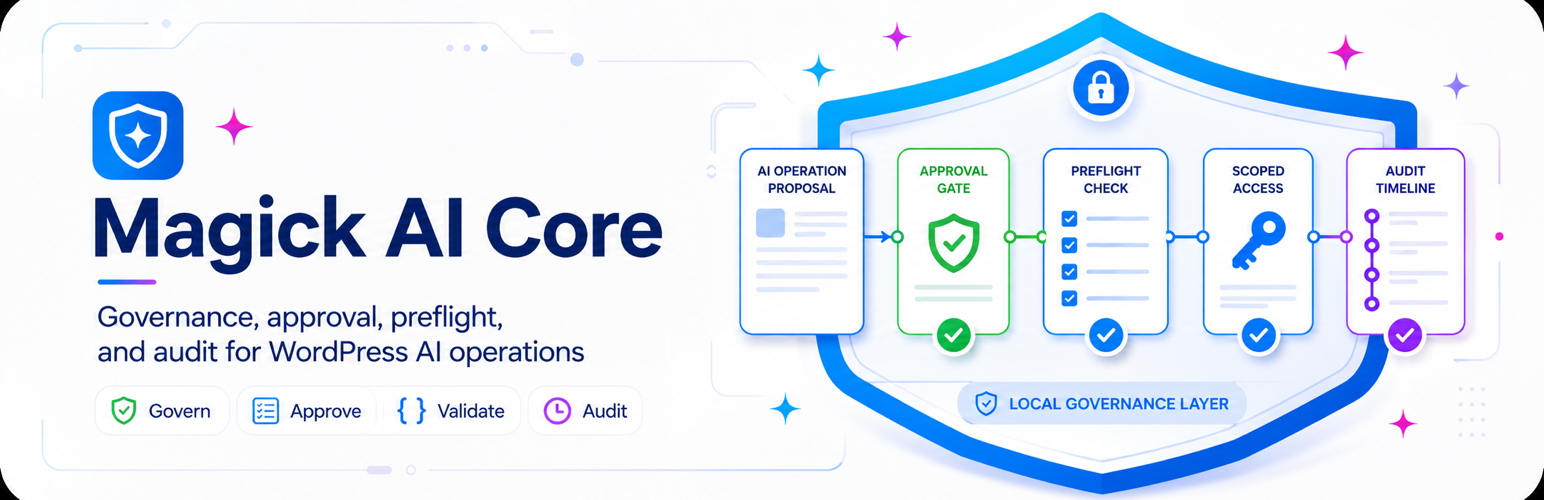
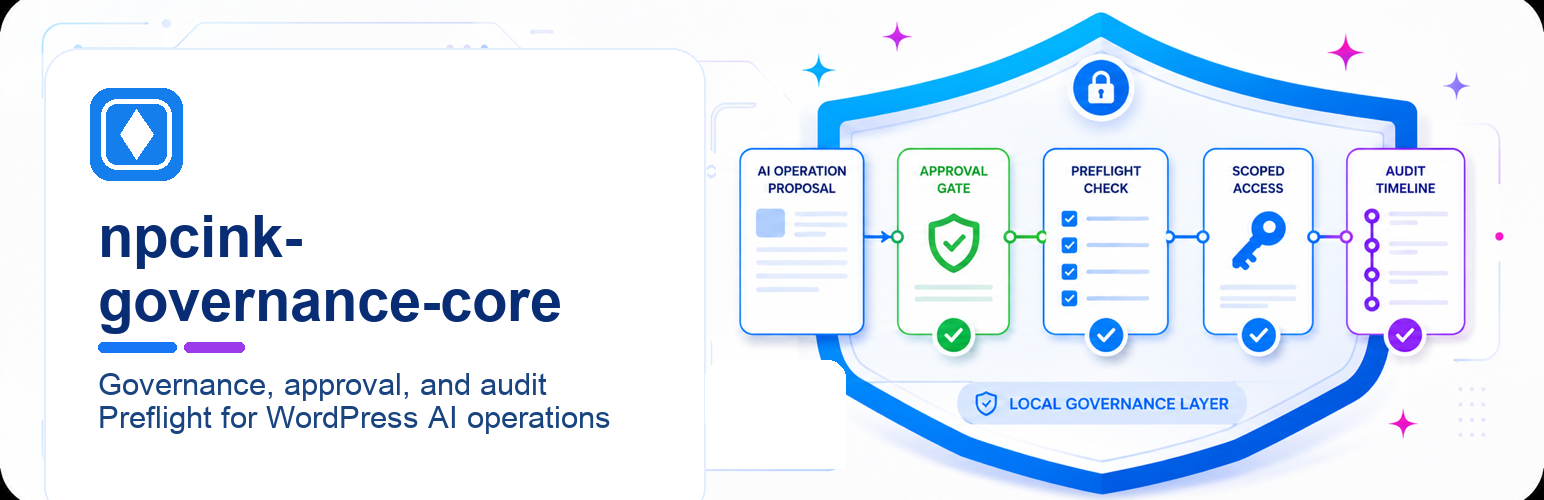
core: align wordpress release identity

diff --git a/includes/Admin/Admin_Page.php b/includes/Admin/Admin_Page.php
@@ -111,7 +111,7 @@ final class Admin_Page {
 
 		add_submenu_page(
 			self::PARENT_MENU_SLUG,
-			__( 'Npcink Governance Core', 'npcink-governance-core' ),
+			__( 'npcink-governance-core', 'npcink-governance-core' ),
 			__( 'Core', 'npcink-governance-core' ),
 			self::MENU_CAPABILITY,
 			self::MENU_SLUG,
@@ -280,7 +280,7 @@ final class Admin_Page {
 		$error          = $this->admin_query_key( 'npcink_governance_core_error' );
 		?>
 		<div class="wrap">
-			<h1><?php echo esc_html__( 'Npcink Governance Core', 'npcink-governance-core' ); ?></h1>
+			<h1><?php echo esc_html__( 'npcink-governance-core', 'npcink-governance-core' ); ?></h1>
 			<p><?php echo esc_html__( 'Review WordPress requests before they run.', 'npcink-governance-core' ); ?></p>
 
 			<?php if ( '' !== $message ) : ?>

diff --git a/tests/run.php b/tests/run.php
@@ -122,7 +122,7 @@ function npcink_governance_core_find_forbidden_key( $value, array $forbidden_key
 }
 
 $main_plugin = npcink_governance_core_read( $root . '/npcink-governance-core.php' );
-npcink_governance_core_assert( false !== strpos( $main_plugin, 'Plugin Name: Npcink Governance Core' ), 'Main plugin file declares plugin header.' );
+npcink_governance_core_assert( false !== strpos( $main_plugin, 'Plugin Name: npcink-governance-core' ), 'Main plugin file declares plugin header.' );
 npcink_governance_core_assert( false !== strpos( $main_plugin, 'Description: Npcink AI governance layer for WordPress operations.' ), 'Main plugin file declares the public positioning.' );
 npcink_governance_core_assert( false !== strpos( $main_plugin, 'Text Domain: npcink-governance-core' ), 'Main plugin file keeps the canonical text domain.' );
 npcink_governance_core_assert( false !== strpos( $main_plugin, 'Domain Path: /languages' ), 'Main plugin file declares the bundled languages path.' );
@@ -184,7 +184,7 @@ foreach (
 $wp_readme = npcink_governance_core_read( $root . '/readme.txt' );
 foreach (
 	array(
-		'=== Npcink Governance Core ===',
+		'=== npcink-governance-core ===',
 		'Stable tag: 0.1.0',
 		'Npcink AI governance layer for WordPress operations.',
 		'Open Npcink AI > Core',

diff --git a/includes/Governance/Commit_Preflight_Service.php b/includes/Governance/Commit_Preflight_Service.php
@@ -65,7 +65,7 @@ final class Commit_Preflight_Service {
 		if ( array_key_exists( 'confirm_token', $request_params ) || array_key_exists( 'write_confirmed', $request_params ) ) {
 			return new WP_Error(
 				'npcink_governance_core_legacy_confirmation_rejected',
-				__( 'Legacy confirmation parameters are not accepted by Npcink Governance Core.', 'npcink-governance-core' ),
+				__( 'Legacy confirmation parameters are not accepted by npcink-governance-core.', 'npcink-governance-core' ),
 				array( 'status' => 400 )
 			);
 		}

diff --git a/npcink-governance-core.php b/npcink-governance-core.php
@@ -1,6 +1,6 @@
 <?php
 /**
- * Plugin Name: Npcink Governance Core
+ * Plugin Name: npcink-governance-core
  * Description: Npcink AI governance layer for WordPress operations.
  * Version: 0.1.0
  * Requires at least: 7.0

diff --git a/.sisyphus/session-breadcrumb.md b/.sisyphus/session-breadcrumb.md
@@ -1,5 +1,36 @@
 # Session Breadcrumb
 
+## 2026-06-10 — Release branch merged and public plugin name aligned
+
+- **Module**: WordPress.org release identity and listing assets.
+- **Status**: The release candidate branch was fast-forward merged into
+  `master`, and the public plugin name is now `npcink-governance-core`.
+- **Completed**:
+  - Merged `codex/media-adoption-enhancement-plan` into `master`.
+  - Updated the plugin header, `readme.txt`, admin title, release gate docs,
+    translation catalogs, and `sj/` listing copy to use
+    `npcink-governance-core` as the public plugin name.
+  - Reworked the WordPress.org banner exports from the existing asset material
+    so they no longer show the old `Magick AI Core` text.
+  - Confirmed WordPress.org asset dimensions for `banner-1544x500.png`,
+    `banner-772x250.png`, `icon-256x256.png`, and `icon-128x128.png`.
+  - Rebuilt `build/npcink-governance-core.zip`; the package root remains
+    `npcink-governance-core/`, and `sj/` remains excluded from the plugin zip.
+- **Verification**:
+  - In `/Users/muze/gitee/magick-ai-core`: `git diff --check`
+  - In `/Users/muze/gitee/magick-ai-core`: `composer release:verify`
+  - In `/Users/muze/gitee/magick-ai-core`: `composer smoke:wp`
+  - In `/Users/muze/gitee/magick-ai-core`: `composer package:release`
+- **Next steps**:
+  - Push `master`.
+  - Copy `build/npcink-governance-core.zip` contents to WordPress.org SVN
+    `/trunk`, create `/tags/0.1.0`, and copy `sj/exports/wordpress-org/*` to
+    SVN top-level `/assets`.
+- **Boundary**:
+  - Release identity and listing asset work only. Core remains the governance
+    layer and still does not execute final writes, route models, store provider
+    credentials, or add workflow/runtime ownership.
+
 ## 2026-06-10 — WordPress.org release gate warning cleared
 
 - **Module**: Core WordPress.org release package readiness.

diff --git a/docs/wordpress-org-release-gate.md b/docs/wordpress-org-release-gate.md
@@ -42,7 +42,7 @@ call site, for example `set_transient( PREFIX . $suffix, ... )`, and keep
 
 Use this public identity for the WordPress.org upload:
 
-- plugin display name: `Npcink Governance Core`;
+- plugin display name: `npcink-governance-core`;
 - package slug and text domain: `npcink-governance-core`;
 - top-level menu and product suite: `Npcink AI`;
 - reviewer-facing description: `Npcink AI governance layer for WordPress operations`;
@@ -51,7 +51,7 @@ Use this public identity for the WordPress.org upload:
 - author: `Npcink`.
 
 Internal PHP namespaces, function prefixes, table prefixes, hooks, options, and
-error codes use the Npcink Governance Core identity. Do not reintroduce legacy
+error codes use the npcink-governance-core identity. Do not reintroduce legacy
 Magick AI compatibility identifiers during a release-only pass.
 
 The upload artifact is:
@@ -64,7 +64,7 @@ Before upload, confirm the package root is `npcink-governance-core/` and the
 plugin header contains:
 
 ```text
-Plugin Name: Npcink Governance Core
+Plugin Name: npcink-governance-core
 Author: Npcink
 Text Domain: npcink-governance-core
 ```
@@ -104,7 +104,7 @@ Use the Additional Information field to help reviewers understand the plugin's
 technical boundary. Prefer this reviewer-facing text over marketing copy:
 
 ```text
-Npcink Governance Core is the Npcink AI governance layer for WordPress operations, reviewing and approving AI-initiated WordPress actions before execution.
+The npcink-governance-core plugin is the Npcink AI governance layer for WordPress operations, reviewing and approving AI-initiated WordPress actions before execution.
 
 The plugin registers REST endpoints under /wp-json/npcink-governance-core/v1/ and stores proposals, audit events, app keys, and rate-limit state in custom WordPress database tables. These direct database queries are intentional because the plugin owns those tables.
 
@@ -114,7 +114,7 @@ The bundled examples use Npcink ability ids, but the base governance proposal li
 
 The plugin does not call external services, does not load remote assets, and does not send site data to third parties. App secrets are hashed before storage, and one-time bearer tokens are only shown at creation time.
 
-Internal PHP namespaces, function prefixes, table prefixes, hooks, options, and error codes use the Npcink Governance Core identity. The public plugin name, slug, text domain, REST namespace, and WordPress.org package identity are Npcink Governance Core / npcink-governance-core.
+Internal PHP namespaces, function prefixes, table prefixes, hooks, options, and error codes use the npcink-governance-core identity. The public plugin name, slug, text domain, REST namespace, and WordPress.org package identity are npcink-governance-core.
 ```
 
 If the form field is short, use this condensed version:

diff --git a/sj/image-prompts.md b/sj/image-prompts.md
@@ -2,7 +2,7 @@
 
 ## Shared Series Identity
 
-Use a consistent Magick AI plugin-family visual language across future assets:
+Use a consistent Npcink plugin-family visual language across future assets:
 
 - Modern open-source developer tooling.
 - Clean geometric shapes.
@@ -15,7 +15,7 @@ Use a consistent Magick AI plugin-family visual language across future assets:
 ## Icon Prompt
 
 ```text
-Create a square WordPress.org plugin icon for "Npcink Governance Core", one plugin in the Npcink plugin family.
+Create a square WordPress.org plugin icon for "npcink-governance-core", one plugin in the Npcink plugin family.
 
 This specific plugin represents the local WordPress governance layer for AI-assisted operations: proposal intake, approval boundaries, commit preflight, scoped app keys, and audit logs. It is not the ability content package, not an OpenClaw adapter, not a cloud connector, and not a model client.
 
@@ -33,11 +33,11 @@ Avoid: robot faces, chat bubbles, cloud product imagery, ability-node content-pa
 ## Banner Prompt
 
 ```text
-Create a WordPress.org plugin banner for "Npcink Governance Core", size 1544x500, with a layout that also works when scaled down to 772x250.
+Create a WordPress.org plugin banner for "npcink-governance-core", size 1544x500, with a layout that also works when scaled down to 772x250.
 
 This plugin is part of the Npcink plugin family. Its role is the local WordPress governance layer: ability intake, proposal records, approval and rejection decisions, commit preflight, scoped app keys, and audit logs for AI-assisted WordPress operations.
 
-It complements the other Magick AI plugins:
+It complements the other Npcink plugins:
 - Npcink Abilities Toolkit handles ability definitions and ability callbacks.
 - trusted adapter handles OpenClaw channel adaptation and calls Core plus the Abilities API.
 - cloud connector links to cloud services.
@@ -45,7 +45,7 @@ This banner should clearly represent Core governance, not Abilities, Adapter, or
 
 Visual concept: a governance console represented abstractly as proposal cards moving through approval gates, preflight validation, and audit timeline evidence. Show a local WordPress control-plane boundary, not cloud execution or chatbot UI.
 
-Text: "Npcink Governance Core"
+Text: "npcink-governance-core"
 Optional subtitle: "Governance, approval, preflight, and audit for WordPress AI operations"
 
 Tone: trusted control plane, secure review, operational accountability, calm and professional developer infrastructure.

diff --git a/sj/positioning.md b/sj/positioning.md
@@ -1,8 +1,8 @@
-# Npcink Governance Core Positioning
+# npcink-governance-core Positioning
 
 ## English
 
-Npcink Governance Core is the WordPress AI operation governance layer for ability
+The npcink-governance-core plugin is the WordPress AI operation governance layer for ability
 intake, proposal records, approval boundaries, commit preflight, scoped app
 keys, and audit logs.
 
@@ -10,7 +10,7 @@ It discovers agent-callable abilities from WordPress and provider plugins,
 records proposed operations, supports approve/reject decisions, performs commit
 preflight, and stores audit evidence for governance review.
 
-Npcink Governance Core is part of the Npcink plugin family:
+The npcink-governance-core plugin is part of the Npcink plugin family:
 
 - `npcink-abilities-toolkit` - ability definitions and ability callbacks.
 - `npcink-governance-core` - governance, approval, preflight, and audit.
@@ -24,14 +24,14 @@ definitions, or perform final WordPress mutations.
 
 ## Chinese
 
-Npcink Governance Core 是 WordPress AI 操作的治理层，负责 ability intake、proposal
+npcink-governance-core 插件是 WordPress AI 操作的治理层，负责 ability intake、proposal
 记录、审批边界、commit preflight、scoped app key 和 audit log。
 
 它从 WordPress 和 provider 插件发现可被 agent 调用的能力，记录待治理的操作
 提案，支持 approve/reject 决策，执行 commit preflight，并保存可审查的治理
 证据。
 
-Npcink Governance Core 是 Npcink 系列插件的一部分：
+npcink-governance-core 插件是 Npcink 系列插件的一部分：
 
 - `npcink-abilities-toolkit` - 能力定义和 ability callback。
 - `npcink-governance-core` - 治理、审批、preflight、audit。

diff --git a/sj/listing-copy-en.md b/sj/listing-copy-en.md
@@ -2,7 +2,7 @@
 
 ## Plugin Name
 
-Npcink Governance Core
+npcink-governance-core
 
 ## Short Description
 
@@ -15,7 +15,7 @@ ai, governance, approval, audit, abilities
 
 ## Description
 
-Npcink Governance Core is the WordPress AI operation governance layer for ability
+The npcink-governance-core plugin is the WordPress AI operation governance layer for ability
 intake, proposals, approval boundaries, commit preflight, scoped app keys, and
 audit logs.
 
@@ -30,7 +30,7 @@ Ability definitions belong in Npcink Abilities Toolkit or other provider plugins
 Productized OpenClaw connection belongs in trusted adapter. Cloud service
 connection belongs in cloud connector.
 
-Npcink Governance Core does not generate content, route models, run MCP or workflow
+The npcink-governance-core plugin does not generate content, route models, run MCP or workflow
 runtimes, store provider credentials, proxy ability execution, or perform final
 WordPress mutations.
 
@@ -63,7 +63,7 @@ WordPress mutations.
 In the Npcink plugin family:
 
 - Npcink Abilities Toolkit owns ability definitions and callbacks.
-- Npcink Governance Core owns governance, approval, preflight, and audit.
+- npcink-governance-core owns governance, approval, preflight, and audit.
 - trusted adapter owns OpenClaw channel adaptation.
 - cloud connector owns cloud service connection.
 

diff --git a/sj/listing-copy-zh.md b/sj/listing-copy-zh.md
@@ -2,7 +2,7 @@
 
 ## 插件名称
 
-Npcink Governance Core
+npcink-governance-core
 
 ## 简短描述
 
@@ -14,7 +14,7 @@ ai, governance, approval, audit, abilities
 
 ## 插件介绍
 
-Npcink Governance Core 是 WordPress AI 操作的治理层，负责 ability intake、proposal、
+npcink-governance-core 插件是 WordPress AI 操作的治理层，负责 ability intake、proposal、
 审批边界、commit preflight、scoped app key 和 audit log。
 
 它从 WordPress 和 provider 插件发现可被 agent 调用的能力，然后围绕操作提案
@@ -25,7 +25,7 @@ Npcink Governance Core 是 WordPress AI 操作的治理层，负责 ability inta
 Core 属于 Npcink 系列插件，但它只聚焦治理。能力定义属于 Npcink Abilities Toolkit 或其他 provider 插件。产品化 OpenClaw 连接属于 trusted adapter。
 云端服务连接属于 cloud connector。
 
-Npcink Governance Core 不生成内容、不路由模型、不运行 MCP 或 workflow runtime、不保存
+npcink-governance-core 不生成内容、不路由模型、不运行 MCP 或 workflow runtime、不保存
 provider credentials、不代理 ability execution，也不执行最终 WordPress 写入。
 
 ## 核心功能
@@ -55,7 +55,7 @@ provider credentials、不代理 ability execution，也不执行最终 WordPres
 在 Npcink 系列插件中：
 
 - Npcink Abilities Toolkit 负责能力定义和 ability callback。
-- Npcink Governance Core 负责治理、审批、preflight、audit。
+- npcink-governance-core 负责治理、审批、preflight、audit。
 - trusted adapter 负责 OpenClaw 通道适配。
 - cloud connector 负责链接云端服务。
 

diff --git a/README.md b/README.md
@@ -1,6 +1,6 @@
-# Npcink Governance Core
+# npcink-governance-core
 
-Npcink Governance Core is the Npcink AI governance layer for WordPress operations.
+The npcink-governance-core plugin is the Npcink AI governance layer for WordPress operations.
 
 It does not generate content, own product workflows, route models, or replace
 the WordPress Abilities API. It discovers agent-callable abilities from

diff --git a/sj/translation-notes.md b/sj/translation-notes.md
@@ -2,7 +2,7 @@
 
 ## English
 
-Npcink Governance Core uses the `npcink-governance-core` text domain in runtime PHP strings, so
+The npcink-governance-core plugin uses the `npcink-governance-core` text domain in runtime PHP strings, so
 it is prepared for WordPress translation workflows.
 
 For WordPress.org publishing, use `listing-copy-en.md` as the primary plugin
@@ -27,7 +27,7 @@ Recommended release flow:
 
 ## Chinese
 
-Npcink Governance Core 的 PHP 运行时字符串使用 `npcink-governance-core` text domain，因此已经
+npcink-governance-core 插件的 PHP 运行时字符串使用 `npcink-governance-core` text domain，因此已经
 具备接入 WordPress 翻译流程的基础。
 
 发布到 WordPress.org 时，建议使用 `listing-copy-en.md` 作为插件目录主文案。